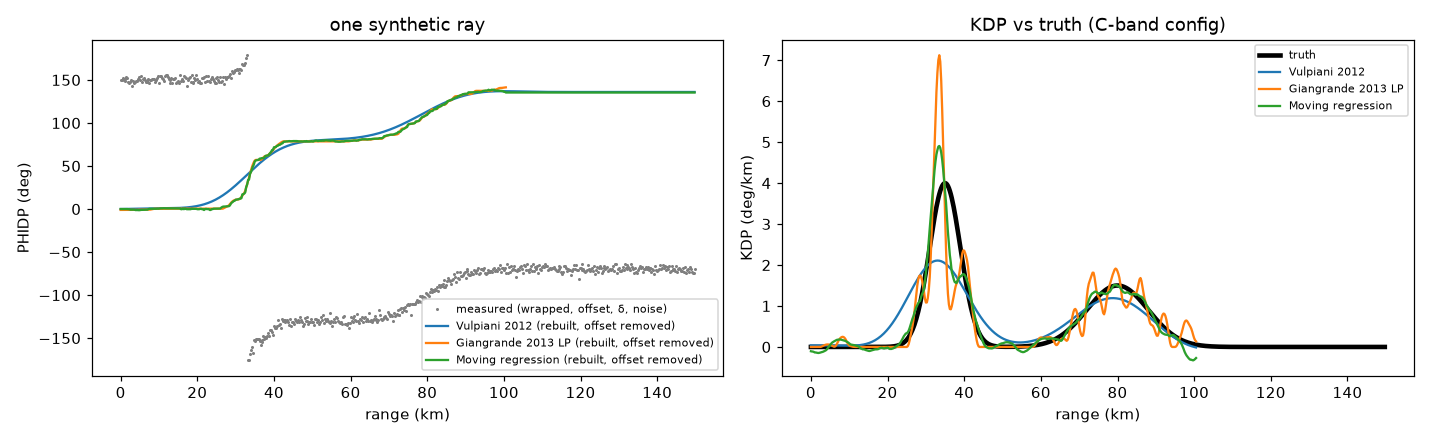
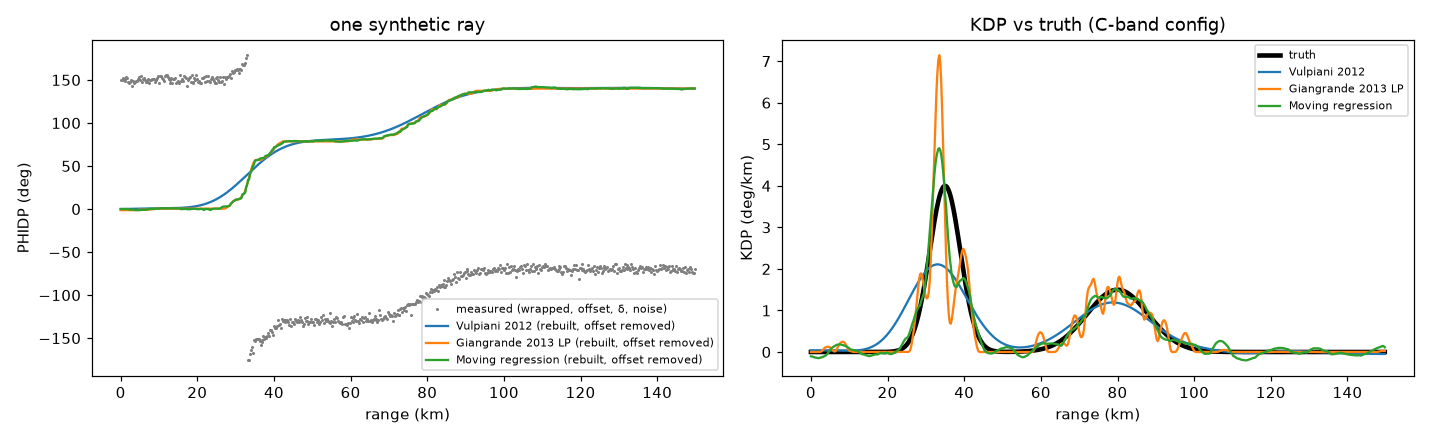
Guide: rain-rate chapter; refreshed KDP and attenuation numbers

diff --git a/guide/illustrated_radar_wow.html b/guide/illustrated_radar_wow.html
@@ -209,12 +209,12 @@ hr.sec { border: 0; border-top: 1px solid var(--line); margin: 3em 0 0; }
 <div class="wrap">
 
 <header class="hero">
-  <div class="eyebrow">radar-wow · guide to stages 0, 2, 3 and 4</div>
+  <div class="eyebrow">radar-wow · guide to stages 0, 2, 3, 4 and 6</div>
   <h1>Illustrated radar-wow</h1>
   <p class="lede">How a weather radar sees rain, what goes wrong inside real radar files, and what each algorithm in our first three notebooks actually does. No radar background needed.</p>
   <p>radar-wow is a set of repos that together turn a raw radar file into a rain map that works for any S, C or X band radar. The pipeline has these stages. This guide covers the highlighted ones, the parts that are built and tested.</p>
   <div class="pipe" aria-label="Pipeline stages">
-    <span class="on">core: read + check</span><span>1 calibration</span><span class="on">2 quality control</span><span class="on">3 Φ<sub>DP</sub> → K<sub>DP</sub></span><span class="on">4 attenuation</span><span>5 classification</span><span>6 rain rate, VPR</span><span>7 gauge merging</span><span>8 mosaic</span><span>9 ML</span><span>verify</span><span>10 pipeline</span>
+    <span class="on">core: read + check</span><span>1 calibration</span><span class="on">2 quality control</span><span class="on">3 Φ<sub>DP</sub> → K<sub>DP</sub></span><span class="on">4 attenuation</span><span>5 classification</span><span class="on">6 rain rate</span><span>7 gauge merging</span><span>8 mosaic</span><span>9 ML</span><span>verify</span><span>10 pipeline</span>
   </div>
   <p class="note">Highlighted = built, tested, with notebooks. The rest are planned.</p>
   <p class="note">Forgot what a term means? The coloured chips in the bar at the top stay with you as you scroll. Tap one for a short reminder. The same colours mean the same thing in every picture below. Tap any result figure to see it full size.</p>
@@ -226,8 +226,9 @@ hr.sec { border: 0; border-top: 1px solid var(--line); margin: 3em 0 0; }
     <li><a href="#qc"><span>5</span>Quality control: removing what is not rain</a></li>
     <li><a href="#kdp"><span>6</span>From Φ<sub>DP</sub> to K<sub>DP</sub></a></li>
     <li><a href="#att"><span>7</span>Attenuation: giving back what heavy rain took</a></li>
-    <li><a href="#place"><span>8</span>Problems that depend on where the radar is</a></li>
-    <li><a href="#next"><span>9</span>Where we are</a></li>
+    <li><a href="#rain"><span>8</span>Rain rate: turning measurements into mm per hour</a></li>
+    <li><a href="#place"><span>9</span>Problems that depend on where the radar is</a></li>
+    <li><a href="#next"><span>10</span>Where we are</a></li>
   </ol>
 </header>
 
@@ -543,7 +544,7 @@ hr.sec { border: 0; border-top: 1px solid var(--line); margin: 3em 0 0; }
 <h3>First, clean up Φ<sub>DP</sub> (same for every method)</h3>
 <p>Before any slope, the raw values have to be made sensible. Here is a made-up ray that has all the problems we found in Section 4 at once.</p>
 <div class="grid2" id="prepGrid"></div>
-<p class="note">Why "runs of at least 2 km"? Far from the storm, a few noise gates pass the ρ<sub>HV</sub> test by pure chance. If we keep them, step 6 draws a line from the storm out to a random noise value and invents a big Φ<sub>DP</sub> rise. Requiring unbroken runs fixed this on two of our three radars. The prep code (<code>radarwow.kdp.phase.prepare</code>) runs these steps on every ray. The sign check looks at the whole sweep: if Φ<sub>DP</sub> goes down through rain on more than 70% of rays, the radar uses the opposite convention, and we flip it.</p>
+<p class="note">Why "runs of at least 2 km"? Far from the storm, a few noise gates pass the ρ<sub>HV</sub> test by pure chance. If we keep them, step 6 draws a line from the storm out to a random noise value and invents a big Φ<sub>DP</sub> rise. Requiring unbroken runs fixed this on two of our three radars. A second rule, a signal-to-noise ratio of at least 10 dB, fixed the third: in weak echo behind a storm, NEXRAD's ρ<sub>HV</sub> is unreliable (15% of its signal gates show impossible values above 1), so noise gates were passing the rain test. The prep code (<code>radarwow.kdp.phase.prepare</code>) runs these steps on every ray. The sign check looks at the whole sweep: if Φ<sub>DP</sub> goes down through rain on more than 70% of rays, the radar uses the opposite convention, and we flip it.</p>
 
 <h3>Feel the problem: window length</h3>
 <p>The simplest fix for noise is to take the slope over a longer stretch: compare Φ<sub>DP</sub> a few km ahead with a few km behind. Play with the window below. The black line is the true K<sub>DP</sub>; pink is what we estimate from noisy Φ<sub>DP</sub>.</p>
@@ -586,7 +587,7 @@ hr.sec { border: 0; border-top: 1px solid var(--line); margin: 3em 0 0; }
     <li>Solve it (we use the HiGHS solver in SciPy).</li>
     <li>Lightly smooth the result and take its slope.</li>
   </ol>
-  <div class="proscons"><div><b>Good</b>K<sub>DP</sub> is never negative. Sharpest cells. Best on our real-data check at every band. Used by the US DOE ARM programme.</div><div><b>Limits</b>Slow: 3 to 4 s per sweep, 15 to 30× the others. The "never decreases" rule is wrong where the hail bump δ makes Φ<sub>DP</sub> rise and fall back.</div></div>
+  <div class="proscons"><div><b>Good</b>K<sub>DP</sub> is never negative. Sharpest cells. Best on our real-data check at every band. Used by the US DOE ARM programme.</div><div><b>Limits</b>Slow: 1 to 2 s per sweep, 10 to 40× the others. The "never decreases" rule is wrong where the hail bump δ makes Φ<sub>DP</sub> rise and fall back.</div></div>
 </div>
 
 <div class="algo">
@@ -623,15 +624,15 @@ hr.sec { border: 0; border-top: 1px solid var(--line); margin: 3em 0 0; }
 <div class="tbl"><table>
 <thead><tr><th>band</th><th>method</th><th>median closure error</th><th>run time</th></tr></thead>
 <tbody>
-<tr><td rowspan="3">S (NEXRAD)</td><td>Vulpiani</td><td class="num">10.9°</td><td class="num">0.2 s</td></tr>
-<tr><td>LP</td><td class="num best">4.1°</td><td class="num">2.8 s</td></tr>
-<tr><td>regression</td><td class="num">10.3°</td><td class="num">0.2 s</td></tr>
-<tr><td rowspan="3">C (CSAPR2)</td><td>Vulpiani</td><td class="num">16.3°</td><td class="num">0.1 s</td></tr>
-<tr><td>LP</td><td class="num best">8.7°</td><td class="num">2.4 s</td></tr>
-<tr><td>regression</td><td class="num">16.6°</td><td class="num">0.2 s</td></tr>
+<tr><td rowspan="3">S (NEXRAD)</td><td>Vulpiani</td><td class="num">9.4°</td><td class="num">0.1 s</td></tr>
+<tr><td>LP</td><td class="num best">3.4°</td><td class="num">1.5 s</td></tr>
+<tr><td>regression</td><td class="num">8.3°</td><td class="num">0.1 s</td></tr>
+<tr><td rowspan="3">C (CSAPR2)</td><td>Vulpiani</td><td class="num">16.3°</td><td class="num">0.0 s</td></tr>
+<tr><td>LP</td><td class="num best">8.7°</td><td class="num">1.5 s</td></tr>
+<tr><td>regression</td><td class="num">16.6°</td><td class="num">0.1 s</td></tr>
 <tr><td rowspan="3">X (X-SAPR)</td><td>Vulpiani</td><td class="num">6.0°</td><td class="num">0.0 s</td></tr>
-<tr><td>LP</td><td class="num best">3.1°</td><td class="num">1.9 s</td></tr>
-<tr><td>regression</td><td class="num">4.7°</td><td class="num">0.2 s</td></tr>
+<tr><td>LP</td><td class="num best">3.1°</td><td class="num">1.1 s</td></tr>
+<tr><td>regression</td><td class="num">4.7°</td><td class="num">0.1 s</td></tr>
 </tbody></table></div>
 
 <h3>Inside one ray through a hail core</h3>
@@ -644,8 +645,8 @@ hr.sec { border: 0; border-top: 1px solid var(--line); margin: 3em 0 0; }
 <div class="grid2">
   <figure style="margin:0"><div class="frame"><img src="fig/kdp_04_vs_pyart.png" alt="Scatter of our Vulpiani KDP versus Py-ART kdp_vulpiani on NEXRAD" loading="lazy"></div></figure>
   <div>
-    <p>Py-ART, the most used open-source radar library, has its own version of Vulpiani 2012. On the same NEXRAD sweep the two agree well (correlation r = 0.80, up from 0.70 before the 2 km rule). Most points sit near the red 1:1 line.</p>
-    <p>A small branch remains where ours is higher (several °/km while Py-ART says under 1). Those gates are masked and gap-filled differently by the two codes. We have not resolved it yet, so it stays an open issue.</p>
+    <p>Py-ART, the most used open-source radar library, has its own version of Vulpiani 2012. On the same NEXRAD sweep the two agree well (correlation r = 0.86, up from 0.70 before our two rain-gate rules). Most points sit near the red 1:1 line.</p>
+    <p>The branch where ours read too high came from the noise gates described above, and it shrank once they were excluded. What is left is scatter from gates the two codes mask and gap-fill differently.</p>
   </div>
 </div>
 
@@ -691,7 +692,7 @@ hr.sec { border: 0; border-top: 1px solid var(--line); margin: 3em 0 0; }
   <h3>Let each ray choose its own α</h3>
   <p>Run ZPHI with many trial α values. Each one predicts a Φ<sub>DP</sub> curve along the ray (PIA ÷ α). Keep the α whose predicted curve best matches the measured Φ<sub>DP</sub>.</p>
   <p>One thing we learned the hard way: <b>α can only be fitted where the path attenuates noticeably</b>. With little loss, every α predicts nearly the same curve, and the "best" one is just noise, often stuck at the edge of the allowed range. So a ray gets its own α only if (a) the expected loss is at least 3 dB, (b) the best α is inside the range, and (c) it beats the default by 10%. Other rays keep the band default and are flagged.</p>
-  <div class="proscons"><div><b>Good</b>Adapts to storms whose α differs from the default; best on the Z<sub>DR</sub> check below.</div><div><b>Limits</b>Needs strong attenuation to work (none of the S band rays qualified, 25 of the C band rays did). The paper's extra Z<sub>DR</sub> constraint for β is not implemented yet.</div></div>
+  <div class="proscons"><div><b>Good</b>Adapts to storms whose α differs from the default.</div><div><b>Limits</b>Needs strong attenuation to work (none of the S band rays qualified, 21 of the C band rays did). The paper's extra Z<sub>DR</sub> constraint for β is not implemented yet.</div></div>
 </div>
 
 <h3>Test 1: known answer</h3>
@@ -705,7 +706,7 @@ hr.sec { border: 0; border-top: 1px solid var(--line); margin: 3em 0 0; }
 <tr><td>S, α right</td><td class="num">1.6 dB</td><td class="num">0.02</td><td class="num">0.02</td><td class="num">0.02</td></tr>
 <tr><td>C, α right</td><td class="num">9.3 dB</td><td class="num">0.09</td><td class="num">0.09</td><td class="num">0.11</td></tr>
 <tr><td>C, α wrong (0.11 vs 0.08)</td><td class="num">9.3 dB</td><td class="num">2.56</td><td class="num">2.53</td><td class="num best">0.48</td></tr>
-<tr><td>X, α right</td><td class="num">25.9 dB</td><td class="num">0.24</td><td class="num">0.31</td><td class="num">0.35</td></tr>
+<tr><td>X, α right</td><td class="num">25.9 dB</td><td class="num">0.37</td><td class="num">0.38</td><td class="num">0.50</td></tr>
 </tbody></table></div>
 <p class="note">Numbers are the remaining Z error in dB at the far end of each ray.</p>
 <div class="key"><div class="ic">!</div><div>
@@ -724,20 +725,83 @@ hr.sec { border: 0; border-top: 1px solid var(--line); margin: 3em 0 0; }
 <thead><tr><th>C band (CSAPR2)</th><th>Z<sub>DR</sub> of light rain</th></tr></thead>
 <tbody>
 <tr><td>with no storm in front (reference)</td><td class="num">+0.15 dB</td></tr>
-<tr><td>behind the storm, before correction</td><td class="num">−1.45 dB</td></tr>
+<tr><td>behind the storm, before correction</td><td class="num">−1.49 dB</td></tr>
 <tr><td>behind the storm, after linear correction</td><td class="num">−0.18 dB</td></tr>
-<tr><td>behind the storm, after ZPHI</td><td class="num">−0.12 dB</td></tr>
-<tr><td>behind the storm, after self-consistent</td><td class="num best">−0.08 dB</td></tr>
+<tr><td>behind the storm, after ZPHI</td><td class="num best">−0.14 dB</td></tr>
+<tr><td>behind the storm, after self-consistent</td><td class="num">−0.15 dB</td></tr>
 </tbody></table></div>
-<p>The correction closes about 1.4 dB of the 1.6 dB gap. The rest suggests β (the Z<sub>DR</sub> loss per degree) is a little higher at this radar than our band default, which is exactly what the not-yet-implemented Z<sub>DR</sub> constraint from Bringi 2001 would estimate.</p>
+<p>All three corrections close about 1.35 dB of the 1.65 dB gap, and they barely differ. The rest suggests β (the Z<sub>DR</sub> loss per degree) is a little higher at this radar than our band default, which is exactly what the not-yet-implemented Z<sub>DR</sub> constraint from Bringi 2001 would estimate.</p>
 <figure>
   <div class="frame"><img src="fig/att_vs_arm.png" alt="Our PIA versus ARM CMAC PIA for three methods" loading="lazy"></div>
-  <figcaption><b>Against ARM's own correction</b> (another processing chain, not truth): correlation 0.68 to 0.76, ours about 2 dB higher. Expected, since ARM's cleaned Φ<sub>DP</sub> rises less than ours across this storm (Section 6, the ray through the hail core).</figcaption>
+  <figcaption><b>Against ARM's own correction</b> (another processing chain, not truth): correlation 0.72 to 0.76, ours about 2 dB higher. Expected, since ARM's cleaned Φ<sub>DP</sub> rises less than ours across this storm (Section 6, the ray through the hail core).</figcaption>
 </figure>
 
 <!-- ============================ 8 ============================ -->
 <hr class="sec">
-<h2 id="place">8. Problems that depend on where the radar is</h2>
+<div class="eyebrow">notebook: radarwow-estimation / 01_rain_rate_s_c_x</div>
+<h2 id="rain">8. Rain rate: turning measurements into mm per hour</h2>
+<p>Everything so far cleans the measurements. Now we turn them into what people need: how much rain is falling, in millimetres per hour. There is no direct way to measure that from a radar. Instead, each measurement is linked to rain rate through a <b>power law</b> learned from drop-size measurements on the ground: R = c × (measurement)<sup>d</sup>. We have three measurements that can do it, and each has a different weakness.</p>
+
+<div class="tbl"><table>
+<thead><tr><th>estimator</th><th>uses</th><th>strength</th><th>weakness</th></tr></thead>
+<tbody>
+<tr><td><b>R(Z)</b></td><td><button class="t t-z" data-t="z">Z</button></td><td>Works on every radar, including reflectivity-only data (IMD today). Fine in light rain.</td><td>Depends on calibration (1 dB error ≈ 15% rain error), dimmed by attenuation and blockage, and the "right" c and d change with the type of rain.</td></tr>
+<tr><td><b>R(K<sub>DP</sub>)</b></td><td><button class="t t-kdp" data-t="kdp">K<sub>DP</sub></button></td><td>No calibration needed; good in heavy rain and in rain mixed with hail.</td><td>Too noisy in light rain.</td></tr>
+<tr><td><b>R(A)</b></td><td>A, specific attenuation (from stage 4)</td><td>No calibration needed, almost linear in rain rate, less sensitive to drop sizes than Z or K<sub>DP</sub>.</td><td>Needs pure rain and a large enough Φ<sub>DP</sub> rise along the ray.</td></tr>
+</tbody></table></div>
+
+<figure>
+  <div class="frame"><img src="fig/rr_01_relations.png" alt="R(Z), R(KDP) and R(A) relations for S, C and X band" loading="lazy"></div>
+  <figcaption><b>Three rulers for the same rain.</b> Left: three Z–R choices (classic Marshall–Palmer, the US NEXRAD convective one with its hail cap, and one fitted for Chennai). Middle: R(K<sub>DP</sub>) per band. The same K<sub>DP</sub> means less rain at X band, because the K<sub>DP</sub> signal grows with frequency. Right: R(A) per band at 0 and 20 °C (Ryzhkov et al. 2014).</figcaption>
+</figure>
+
+<div class="algo">
+  <div class="name">SyntheticRainRate</div>
+  <h3>Pick the best ruler for each gate</h3>
+  <p>The US MRMS system (Zhang et al. 2020) does not trust one estimator everywhere. It chooses per gate, and we follow its logic:</p>
+  <ol class="recipe">
+    <li>Above the melting layer, no rain relation applies (it is snow or ice up there).</li>
+    <li>Where Z ≥ 50 dBZ, hail may be mixed in: use R(K<sub>DP</sub>), which hail barely affects.</li>
+    <li>Otherwise, where A is known: use R(A).</li>
+    <li>Otherwise: use R(Z), with Z capped at 53 dBZ so hail cannot produce absurd rates (the NEXRAD hail cap).</li>
+  </ol>
+  <p>Each gate also records which ruler it used, so every number in the final map can be traced.</p>
+</div>
+
+<figure>
+  <div class="frame"><img src="fig/rr_02_rain_maps.png" alt="Corrected Z, R(Z), synthetic rain rate and estimator source maps for S, C and X band" loading="lazy"></div>
+  <figcaption><b>Rows: S, C, X.</b> Columns: attenuation-corrected Z, rain from R(Z) alone, the synthetic rain rate, and which estimator each gate used (green R(A), pink R(K<sub>DP</sub>), orange R(Z)). R(A) covers the heavy-rain paths; R(Z) the light rain around them. At X band the synthetic map shows spokes, explained below.</figcaption>
+</figure>
+
+<h3>Two guards the papers did not spell out</h3>
+<p>On real data, R(A) first produced absurd rates: up to 1,800 mm/h at S band. Tracking them down gave two rules, now settings in each band's configuration file:</p>
+<div class="grid2">
+  <div class="mini"><div class="h"><i>1</i>Enough Φ<sub>DP</sub> rise along the ray</div><p class="note" style="margin:0">If a ray's Φ<sub>DP</sub> barely rises, the attenuation along it is too small to measure, and R(A) is mostly noise. At S band, where attenuation per degree is 5× smaller than at C, R(A) only behaves when the rise is at least about 40°. At C and X, 5° is enough.</p></div>
+  <div class="mini"><div class="h"><i>2</i>Not too much attenuation</div><p class="note" style="margin:0">At X band, deep behind a storm (more than about 10 dB lost), ZPHI amplifies noise and A jumps to impossible values. Beyond that, R(Z) or nothing is used.</p></div>
+</div>
+<p>Two more fixes came from the same hunt: ZPHI must see the hail gates' reflectivity (capped) when sharing out the Φ<sub>DP</sub> total, and Φ<sub>DP</sub> processing must ignore weak, noisy gates (Section 6). After all four, the largest rates are 125 mm/h at C, 245 at X and 559 at S, where 16 gates inside the tornadic supercell remain suspicious.</p>
+
+<h3>Do the rulers agree?</h3>
+<figure>
+  <div class="frame"><img src="fig/rr_03_ra_vs_rz.png" alt="R(A) versus R(Z) scatter for S, C and X band" loading="lazy"></div>
+  <figcaption><b>R(A) against R(Z)</b> where both exist (Z below 50 dBZ). The red line is perfect agreement.</figcaption>
+</figure>
+<div class="tbl"><table>
+<thead><tr><th>band</th><th>median R(A) ÷ R(Z)</th><th>what it suggests</th></tr></thead>
+<tbody>
+<tr><td>S (NEXRAD)</td><td class="num">0.92</td><td>agree</td></tr>
+<tr><td>C (CSAPR2)</td><td class="num">1.35</td><td>agree within the usual Z–R uncertainty</td></tr>
+<tr><td>X (X-SAPR)</td><td class="num">2.04</td><td>R(A) gives twice the rain</td></tr>
+</tbody></table></div>
+<div class="key"><div class="ic">?</div><div>
+<p><b>A calibration clue at X band.</b> R(A) does not depend on how well the radar's Z is calibrated; R(Z) does. When they disagree by a factor of two everywhere, the likely cause is that this X-SAPR's Z reads several dB low, or that Marshall–Palmer is wrong for this storm. That is exactly the kind of question the calibration stage (stage 1) answers. It also explains the spokes in the X band map: whole rays switch between two rulers that disagree. MRMS hides such edges with a blending zone. The better fix is upstream: use R(A) to measure the Z calibration error (Diederich et al. 2015), then correct Z.</p>
+</div></div>
+<p class="note">R(K<sub>DP</sub>) compared with R(Z) looks 2 to 3× higher at every band. That is a statistical trap, not a finding: comparing only gates where R(K<sub>DP</sub>) &gt; 1 mm/h selects gates where K<sub>DP</sub> noise happened to be positive. It is why R(K<sub>DP</sub>) is only used in heavy rain.</p>
+<p class="note">No rain gauges yet: everything here is a consistency check, not a verification. The next step is to add up hourly rain on a NEXRAD case and compare with an independent gauge-corrected product.</p>
+
+<!-- ============================ 9 ============================ -->
+<hr class="sec">
+<h2 id="place">9. Problems that depend on where the radar is</h2>
 <p>Our five sample files showed problems that come from the <i>radar and its software</i>. A second family comes from the <i>place</i>: terrain, climate, season, what is built nearby. A system that works everywhere has to handle both. Here is the map of place-dependent problems, and which stage owns each one.</p>
 <div class="place">
   <div><h4>Mountains and hills</h4><p>Beam blocked partly or fully; strong clutter; the lowest tilt overshoots valleys.</p><p><span class="pill p-next">stage 6 blockage, hybrid scan</span> <span class="pill p-ok">QC clutter</span></p></div>
@@ -755,7 +819,7 @@ hr.sec { border: 0; border-top: 1px solid var(--line); margin: 3em 0 0; }
 
 <!-- ============================ 8 ============================ -->
 <hr class="sec">
-<h2 id="next">9. Where we are</h2>
+<h2 id="next">10. Where we are</h2>
 <div class="tbl"><table>
 <thead><tr><th>stage</th><th>status</th><th>open items</th></tr></thead>
 <tbody>
@@ -763,9 +827,10 @@ hr.sec { border: 0; border-top: 1px solid var(--line); margin: 3em 0 0; }
 <tr><td>2 quality control</td><td><span class="pill p-ok">built</span></td><td>Tune the quality-map ρ<sub>HV</sub> threshold per band; wire in MistNet for birds.</td></tr>
 <tr><td>3 Φ<sub>DP</sub> → K<sub>DP</sub></td><td><span class="pill p-ok">built</span></td><td>The last Py-ART difference; handle the hail bump δ explicitly.</td></tr>
 <tr><td>4 attenuation</td><td><span class="pill p-ok">built</span></td><td>Z<sub>DR</sub> constraint for β; hail, melting-layer and wet-radome loss.</td></tr>
-<tr><td>1, 5 to 10</td><td><span class="pill p-next">planned</span></td><td>State-of-the-art survey under way for every stage; code not started.</td></tr>
+<tr><td>6 rain rate</td><td><span class="pill p-ok">built</span></td><td>Accumulation and first verification; melting layer from QVP; beam blockage and hybrid scan; VPR.</td></tr>
+<tr><td>1, 5, 7 to 10</td><td><span class="pill p-next">planned</span></td><td>Survey done (four parts, build plan); code not started.</td></tr>
 </tbody></table></div>
-<p>Next: a survey of the state of the art for each stage and each place-dependent problem above, so that every gap has a published method to implement. Then classification and the rain-rate estimators, which with the stages above give the first rain map.</p>
+<p>The state-of-the-art survey (four parts, about 400 verified references) is done and turned into a build plan. Next in that plan: the melting layer from quasi-vertical profiles, beam blockage from terrain, hourly accumulation, and a first comparison with gauges.</p>
 
 <h3>Papers in this guide</h3>
 <ul class="note">
@@ -774,6 +839,10 @@ hr.sec { border: 0; border-top: 1px solid var(--line); margin: 3em 0 0; }
   <li>Giangrande, McGraw &amp; Lei (2013), J. Atmos. Oceanic Technol. 30, 1716–1729. <a href="https://doi.org/10.1175/JTECH-D-12-00147.1">doi:10.1175/JTECH-D-12-00147.1</a></li>
   <li>Testud, Le Bouar, Obligis &amp; Ali-Mehenni (2000), J. Atmos. Oceanic Technol. 17, 332–356. <a href="https://doi.org/10.1175/1520-0426(2000)017%3C0332:TRPAAT%3E2.0.CO;2">doi:10.1175/1520-0426(2000)017&lt;0332:TRPAAT&gt;2.0.CO;2</a></li>
   <li>Bringi, Keenan &amp; Chandrasekar (2001), IEEE Trans. Geosci. Remote Sens. 39, 1906–1915. <a href="https://doi.org/10.1109/36.951081">doi:10.1109/36.951081</a></li>
+  <li>Ryzhkov, Diederich, Zhang &amp; Simmer (2014), J. Atmos. Oceanic Technol. 31, 599–619. <a href="https://doi.org/10.1175/JTECH-D-13-00038.1">doi:10.1175/JTECH-D-13-00038.1</a></li>
+  <li>Zhang et al. (2020), J. Hydrometeor. 21, 2507–2521. <a href="https://doi.org/10.1175/JHM-D-19-0194.1">doi:10.1175/JHM-D-19-0194.1</a></li>
+  <li>Fulton et al. (1998), Wea. Forecasting 13, 377–395. <a href="https://doi.org/10.1175/1520-0434(1998)013%3C0377:TWRA%3E2.0.CO;2">doi:10.1175/1520-0434(1998)013&lt;0377:TWRA&gt;2.0.CO;2</a></li>
+  <li>Marshall &amp; Palmer (1948), J. Meteor. 5, 165–166. <a href="https://doi.org/10.1175/1520-0469(1948)005%3C0165:TDORWS%3E2.0.CO;2">doi:10.1175/1520-0469(1948)005&lt;0165:TDORWS&gt;2.0.CO;2</a></li>
   <li>Wolfensberger et al. (2021), Atmos. Meas. Tech. 14, 3169–3193. <a href="https://doi.org/10.5194/amt-14-3169-2021">doi:10.5194/amt-14-3169-2021</a></li>
   <li>Saltikoff et al. (2016), Bull. Amer. Meteor. Soc. 97, 1159–1167. <a href="https://doi.org/10.1175/BAMS-D-15-00048.1">doi:10.1175/BAMS-D-15-00048.1</a></li>
   <li>Lin et al. (2019), Methods Ecol. Evol. 10, 1908–1922 (MistNet). <a href="https://doi.org/10.1111/2041-210X.13280">doi:10.1111/2041-210X.13280</a></li>
@@ -932,7 +1001,7 @@ hr.sec { border: 0; border-top: 1px solid var(--line); margin: 3em 0 0; }
     var off = flip.map(function (v) { return v - first; });
     var steps = [
       ["1", "As stored", "Noise outside the storm, a 100° offset, decreasing values, and a jump from 0° to 360° at ~45 km.", raw, -10, 370, [0, 180, 360]],
-      ["2", "Keep rain gates only", "Gates with ρ<sub>HV</sub> above 0.9 and real signal, in unbroken runs of at least 2 km. The noise is gone.", only, -10, 370, [0, 180, 360]],
+      ["2", "Keep rain gates only", "Gates with ρ<sub>HV</sub> above 0.9 and real signal, in unbroken runs of at least 2 km, with enough signal-to-noise. The noise is gone.", only, -10, 370, [0, 180, 360]],
       ["3", "Unfold", "Undo the 360° jump: where values leap by more than 180°, add or subtract 360°.", unf, -100, 110, [-90, 0, 90]],
       ["4", "Fix the sign", "This radar counts the other way; multiply by −1 so Φ<sub>DP</sub> rises through rain.", flip, -110, 100, [-90, 0, 90]],
       ["5", "Remove the offset", "Subtract the starting value (median of the first 10 rain gates). Now it starts at 0 and the slope can be taken.", off, -15, 160, [0, 70, 140]]
